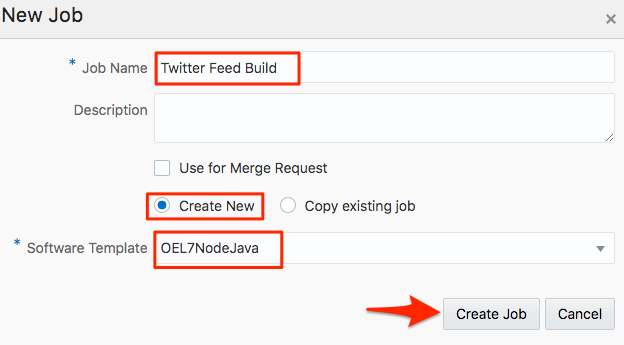
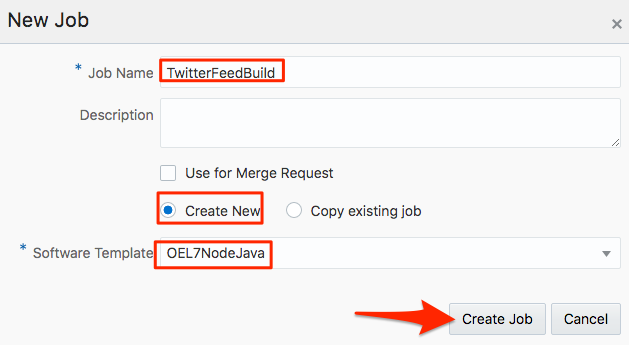
Completed most changes to 200SelfService lab - still need to show task completion

diff --git a/workshops/microservices-devops/CloudNative200SelfService.md b/workshops/microservices-devops/CloudNative200SelfService.md
@@ -97,7 +97,7 @@ Now that we have the source code in the Developer Cloud Service managed GIT repo
 
     ![](images/200/Picture20.png)  
 
-- In the New Job popup enter `Twitter Feed Build` for the Job Name, click on **Create New**, select **OEL7NodeJava** from the Software Teamplate, and then click **Create Job**.
+- In the New Job popup enter `TwitterFeedBuild` for the Job Name, click on **Create New**, select **OEL7NodeJava** from the Software template, and then click **Create Job**.
 
     ![](images/200/PictureSelfServe01.png)  
 
@@ -124,7 +124,6 @@ Now that we have the source code in the Developer Cloud Service managed GIT repo
 - set the **Files to archive** field to `**/target/*`
 - Select **Archive Maven Artifacts**. 
 - Leave **Compression** set to **GZIP**.
-- Click on the **Gear Icon** in the Job Configuration panel. 
 
     ![](images/200/PictureSelfServe07.png)
 
@@ -140,11 +139,7 @@ Now that we have the source code in the Developer Cloud Service managed GIT repo
 
     ![](images/200/PictureSelfServe10.png)
 
-- Click on the **Triggers** tab. Click on the **Add Trigger** button and select **SCM Polling Trigger**
-
-    ![](images/200/PictureSelfServe11.png)
-
-- For the sake of this workshop, we are going to set the polling to every two minutes by entering "`0/2 * * * #Every 2 minutes`" into the **Cron Pattern** field. Click on **Save** to save tis Job Configuration.
+- Click on **Save** to save this Job Configuration.
 
     ![](images/200/PictureSelfServe12.png)
 
@@ -297,163 +292,101 @@ We have now verified that the statictweets microservice has been deployed and fu
 
 # Add Filter to Static Twitter Feed Service
 
-Now that we have completed the import, build, deployment, and verification of our initial static twitter microservice, it is time to extend the project by adding a new microservice that allows us to dynamically filter the incoming tweets based on their contents. We will use the Eclipse IDE to clone the managed GIT repository to our local workstation and add the filtering feature to the local copy. We will create a new code branch for it and commit the branch. Then we will create a merge request and switch to the Project Manager persona to approve that request. We will also see how we can manage our agile task status directly from Eclipse.
+Now that we have completed the import, build, deployment, and verification of our initial static twitter microservice, it is time to extend the project by adding a new microservice that allows us to dynamically filter the incoming tweets based on their contents.
 
-## Clone Project to Eclipse IDE
+Normally you would you an Integrated Development environment like Eclipse to update update and test your code modifications locally, but for simplicity, we will download the Developer Cloud Service GIT repository locally, use an editor of your choice, and then commit and push the code back to the Developer Cloud Service GIT repository.
 
-### **STEP 8**: Load Eclipse IDE
+## Install GIT on your laptop
 
-In the following task we will provide screen shots taken from the optional compute image provided with the workshop. If you are using Eclipse and Brackets on your local hardware, your screens may vary slightly.
+### **Step 8**: Install Git
 
-- Right Click and select **Run** on the **Eclipse** Desktop Icon.
+- There are many sites that you can visit to install GIT on your laptop. Visit [https://git-scm.com/downloads](https://git-scm.com/downloads) to download and install GIT for your operating system. In the examples to follow, we will use Windows cmd window to execute the git commands, but these examples will work equally as well on Windows or a Mac.
 
-    Note: If you have not already installed and configured Eclipse, please see this Workshop's **Student Guide** for instructions on how to install and configure it.
+- Open a **cmd** or **terminal** window and execute the command: 
 
-    ![](images/200/Picture50.png)  
+    ```
+    git --version
+    ```
 
-### **STEP 9**: Create connection to Oracle Developer Cloud Service
+    ![](images/200/PictureSelfServe22.png)  
 
-- We will now create a connection to the Developer Cloud Service. To do this, first click on the menu options **Window -> Show View ->Other**  
+### **Step 9**: Clone the GIT Repository to your laptop
 
-    ![](images/200/Picture52.png)  
+- Back in the **Developer Cloud Service** Console, click on **Project** in the left hand menu. Then select the text in the **TwitterFeedMicroservice.git** URL, right-click and select **Copy**.
 
-- Enter `oracle` in the search field. Select **Oracle Cloud**, and click on **OK**.  
+    ![](images/200/PictureSelfServe23.png)  
 
-    ![](images/200/Picture53.png)  
+    ![](images/200/PictureSelfServe24.png)  
 
-- Click on **Connect** in the Oracle Cloud tab
+- Enter the following into the **cmd/terminal** window, and **appending the URL** you just copied after the command 
 
-    ![](images/200/Picture54.png)  
+    ```
+    git clone <the git repository URL you copied>
+    ``` 
 
-- Enter the following information, then click on the **Finish** button:
+    ![](images/200/PictureSelfServe25.png)  
 
-  - **Identity Domain**: `<your identity domain>` ***Note:*** if you're using a trial account, since you are connecting to the Developer Cloud Services, which is a Traditional Service, you populate this field with the **Identity Domain Name** you recorded.
+- Now you will change to the **TwitterFeedMicroservice**, and you will create a new Branch titled **Feature2**. You will then **Checkout** that branch. Use the following commands:
 
-  - **User name**: `<your Username>`
+    ```
+    cd TwitterFeedMicroservice
+    git branch Feature2
+    git checkout Feature2
+    ```
 
-  - **Password**: `<your Identity domain password>`
+### **Step 10**: Update the StaticTweets.java and MyServiceTest.java
 
-  - **Connection Name**: `OracleConnection`
+- We need to modifiy the StaticTweets.java file so that it will perform filtering of Tweets. To do this, open the file **TwitterFeedMicroservices/src/main/java/com/example/StaticTweets.java**. Here is an example on Windows:
 
-    ![](images/200/Picture55.2.png)  
+    ```
+    notepad src/main/java/com/example/StaticTweets.java
+    ```
+    ![](images/200/PictureSelfServe26.png)  
 
-- If prompted, enter and confirm a Master Password for the Eclipse Secure Storage.
-  - In our example we use the **password:**  `oracle`. Press **OK**.
+- In your editor of choice, located the lines that begin with **Remove this comment**. Removing these lines will cause the code between the comments to execute:
 
-    ![](images/200/Picture56.png)  
+    ![](images/200/PictureSelfServe27.png)  
 
-  - If prompted to enter a Password Hint, click on ***No***
+- The file should now look like this. **Save** the file and close the Editor.
 
-    ![](images/200/Picture57.png)  
+     ![](images/200/PictureSelfServe28.png)  
 
-### **STEP 10**: Create a local clone of the repository
+- Now we need to update the test code that will be run whenever a build occurs. Open the file  **TwitterFeedMicroservices/src/test/java/com/example/MyServiceTest.java**. Here is an example on Windows:
 
-- **Expand Developer**, and then **double click** on **Alpha Office Product Catalog** project to activate the project.
+    ```
+    notepad src/test/java/com/example/MyServiceTest.java
+    ```
+     ![](images/200/PictureSelfServe30.png)  
 
-    ![](images/200/Picture58.png)  
+- Search for the method **testGitStaticSearchTweets()** and remove the **Comment Lines** surronding that method. 
 
-- **Expand** the **Code** section, and **double click** on the **Git Repo** [**TwitterFeedMicroservice.git**], to cause the Repo to be cloned locally.
+     ![](images/200/PictureSelfServe31.png)  
 
-    ![](images/200/Picture59.png)  
+- The file should now look like this. **Save** the file and exit the Editor.
 
-- To import project into Eclipe navigate to the top left **File** menu and select **Import**.
+     ![](images/200/PictureSelfServe32.png)  
 
-    ![](images/200/Picture59.1.png)  
 
-- In Import wizard, expand the **Git** menu item and select **Projects from Git**. Click **Next**
+- Execute the commands below. The **git status** will show the files that you modified in this branch. The **git config** commands will set the username and email used when pushing the changes to the Developer Cloud Service GIT repository. The finally, the **git commit** command commit the changes and add a comment.
 
-    ![](images/200/Picture59.2.png)  
+    ```
+    git status
+    git config --global user.email "youremail@me.com"
+    git config --glogal user.name "your name"
+    git commit -am "Feature2: Added Support for Filtering"
+    ```
 
-- Select **Existing local repository** and click **Next**
+    ![](images/200/PictureSelfServe33.png)
 
-    ![](images/200/Picture59.3.png)  
+- Let's now push the code to the Repository. Execute the following command which will push the **Feature2** branch.
 
-- Select the **TwitterFeedMicroservice** git repository and click **Next**
+    ```
+    git push --set-upstream origin Feature2
+    ```
 
-    ![](images/200/Picture59.4.png)  
+    ![](images/200/PictureSelfServe34.png)
 
-- Take the defaults and click **Next**
-
-    ![](images/200/Picture59.5.png)  
-
-- Review configuration and click **Finish**
-
-    ![](images/200/Picture59.6.png)  
-
-
-### **STEP 11**: Set Feature 2 Status to In Progress
-
-In the previous steps we updated the status of the Tasks assigned to "Bala Gupta" using the web interface to the Developer Cloud Service. In this step we will use the Eclipse connection to the Developer Cloud Service to update the status of Bala’s tasks.
-
-- Within the Oracle Cloud Connection tab, double click the **Issues** to expand, then double click on **Mine** to expand your list. Once you see the list of your Issues, then double click on **Create Filter on Twitter Feed**. You can adjust what Eclipse views are visible using the right side and top Window menu options. 
-
-    ![](images/200/Picture71.png)  
-
-- Scroll down to the bottom of the **Create Filter on Twitter Feed** window. In the Actions section, and change the **Actions** to **Accept (change status to ASSIGNED)**, then click on **Submit**.
-
-    ![](images/200/Picture72.2.png)  
-
-- Optionally, if you return to the Developer Cloud Service web interface, you’ll see that the Eclipse interface caused the Feature 2 to be moved to the **In Progress** column of the **Agile > Active Sprints**.
-
-    ![](images/200/Picture73.2.png)  
-
-## Add the Filter to the Service
-
-The Code we cloned locally contains the entire source necessary to filter the Static Twitter Feed. In this section of the lab, we will un-comment the code and test the filter.
-
-### **STEP 12**: Add Filter
-
-- In the Project Explorer, **expand** the **TwitterFeedMicroservice > src/main/java > com.example** and **double click** on **StaticTweets.java** to open the source code.
-
-    ![](images/200/Picture78.png)  
-
-- In the StaticTweets.java source file, scroll down until you find two lines of code that begin with “**--- Remove this comment**”. **Delete both of these lines** to activate the code that will cause filtering of the Static Tweets file to occur.
-
-    ![](images/200/Picture79.png)  
-
-- Your code should now look like this:
-
-    ![](images/200/Picture75.5.png)  
-
-- Next we will enable the filter in the testing code. Expand the **src/test/java > com.example folder**, and **double click** on **MyServiceTest.java** to open the source file
-
-    ![](images/200/Picture80.png)  
-
-- In the MyServiceTest.java source file, locate the method **testGetStaticSearchTweets()**, and **remove** the **comments** so that section of code will execute.
-
-    ![](images/200/Picture81.png)  
-
-- Click on the **Save All** icon
-
-    ![](images/200/Picture82.png)  
-
-## Create Branch and Merge Request
-
-### **STEP 13**: Create Branch
-
-- right click on **TwitterFeedMicroservice** and select **Team > Switch To > New Branch**
-
-    ![](images/200/image087.png)  
-
-- Enter **Feature2** for the Branch name, and click on **Finish**
-
-    ![](images/200/image088.png)  
-
-- We can now commit our code to the branch by Right Clicking on **TwitterFeedMicroservice** and then selecting **Team > Commit**
-
-    ![](images/200/image089.png)  
-
-- Enter “**Feature2: Added Support for Filtering**” in the Commit Message box.
-- If the changed files are not already identified as Staged Changes, **Drag and Drop** the **changed files** into the **Staged Changes** panel.
-- Click on **Commit and Push**. Note: it is possible to change the default Author and Committer to match the current “persona." However, for the sake of this lab guide, we will leave the defaults.  
-
-    ![](images/200/image090.png)  
-
-- Accept the Default for the **Push Branch Feature** 2 dialog and click on **Next**
-- Click on the **Finish button** in the Push Confirmation dialog
-- Click on **Ok** in Push Result dialog
-
-### **STEP 14**: Create Merge Request
+### **STEP 11**: Create Merge Request
 
 - Return to the Developer Cloud Service Dashboard in the browser.  If the session has timed out you may have to navigate to it again. On navigation panel click **Code**, select the **Feature2** branch. Notice the changes. Click on the **Src** folder to view the changes commited to the branch from Eclipse.
 
@@ -494,7 +427,7 @@ The Code we cloned locally contains the entire source necessary to filter the St
 
 In the following steps “Lisa” will merge the branch create by “Bala” into the master.
 
-### **STEP 15**: Merge Requests
+### **STEP 12**: Merge Requests
 
 ![](images/lisa.png)  
 
@@ -524,7 +457,7 @@ In the following steps “Lisa” will merge the branch create by “Bala” int
 
 ## Test the JavaTwitterMicroservice in the Cloud
 
-### **STEP 16**: Test Microservice
+### **STEP 13**: Test Microservice
 
 - Click **Deploy** in the left-hand menu to load the **Deployments** screen.
 
